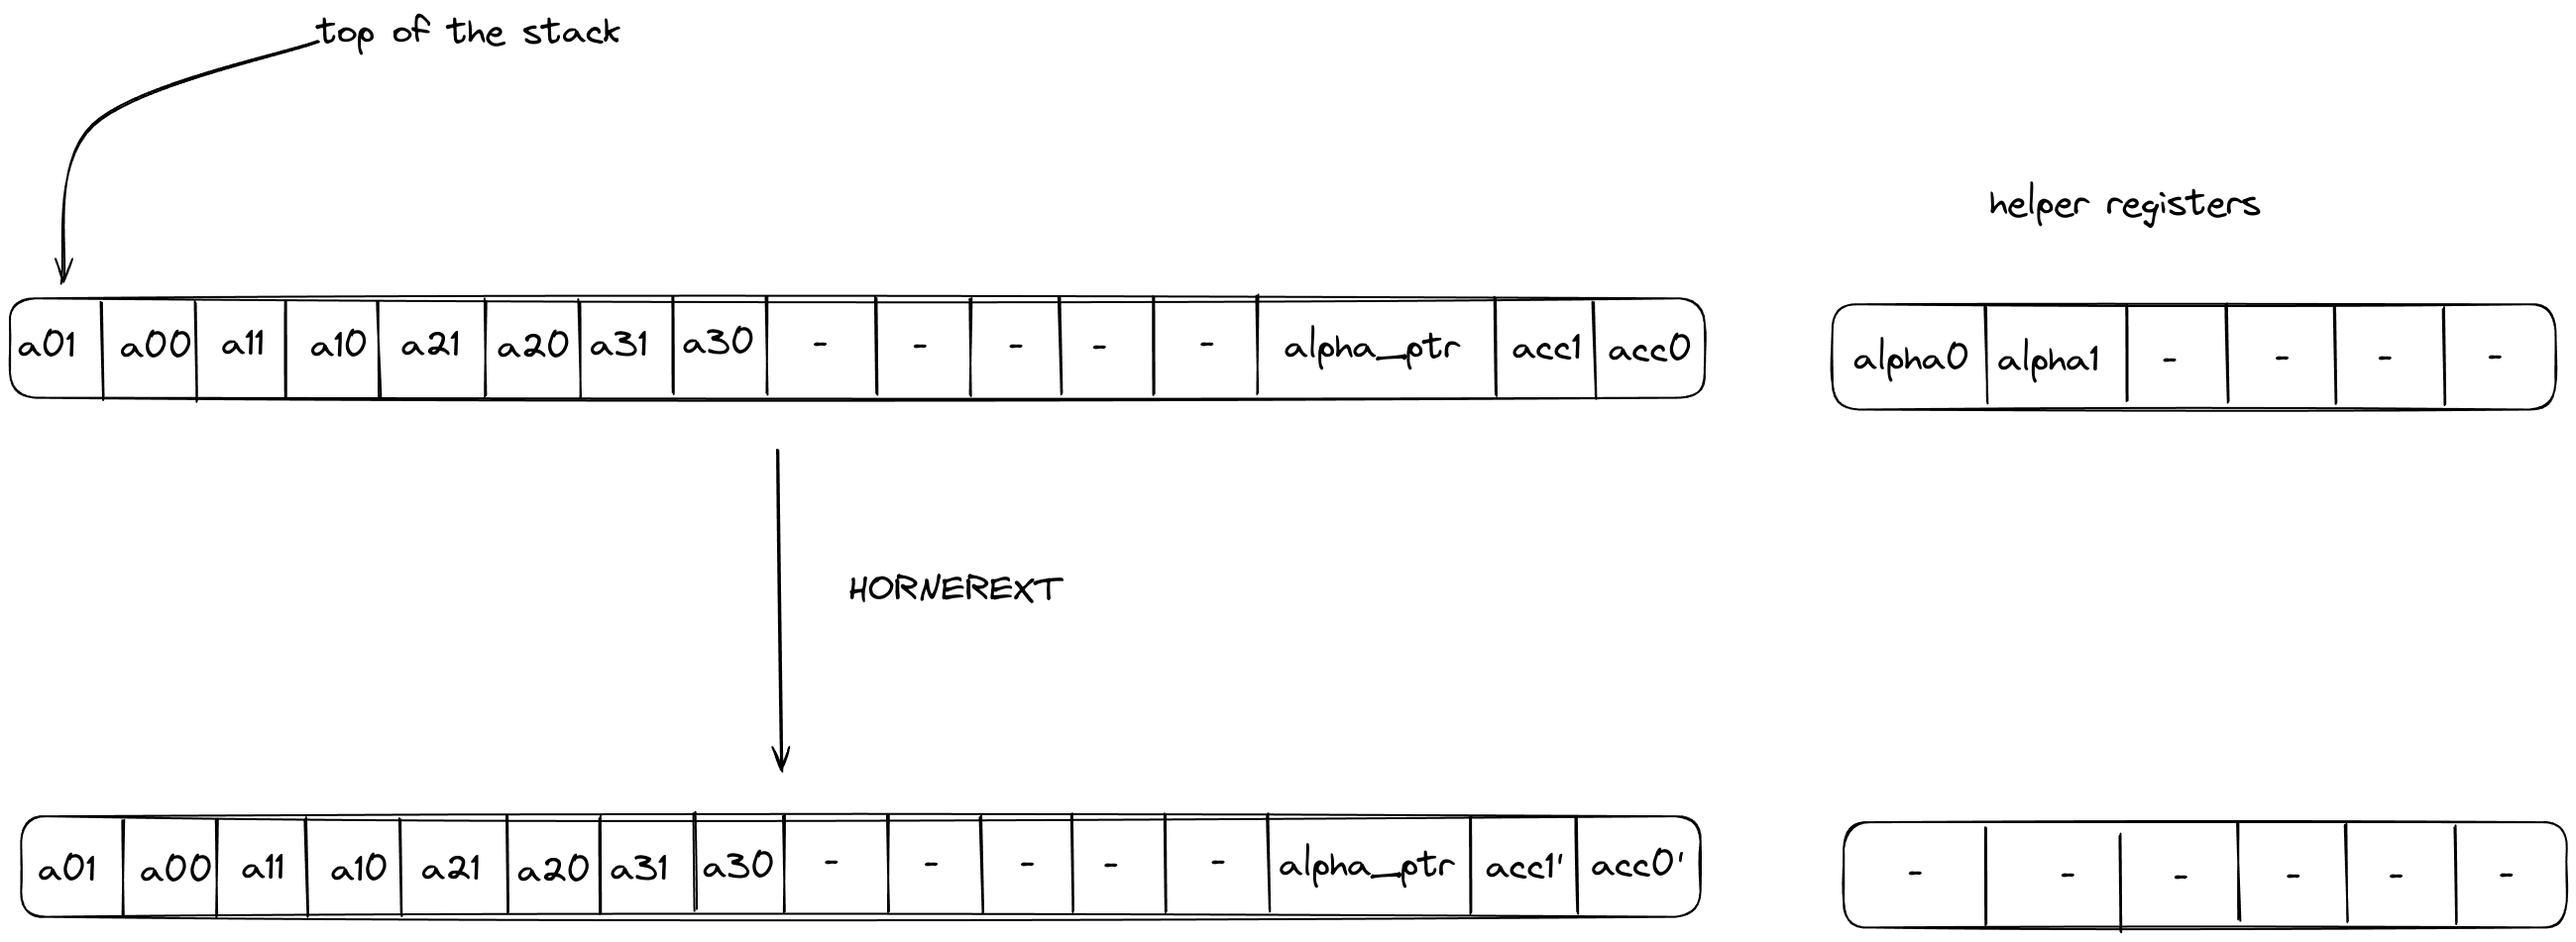
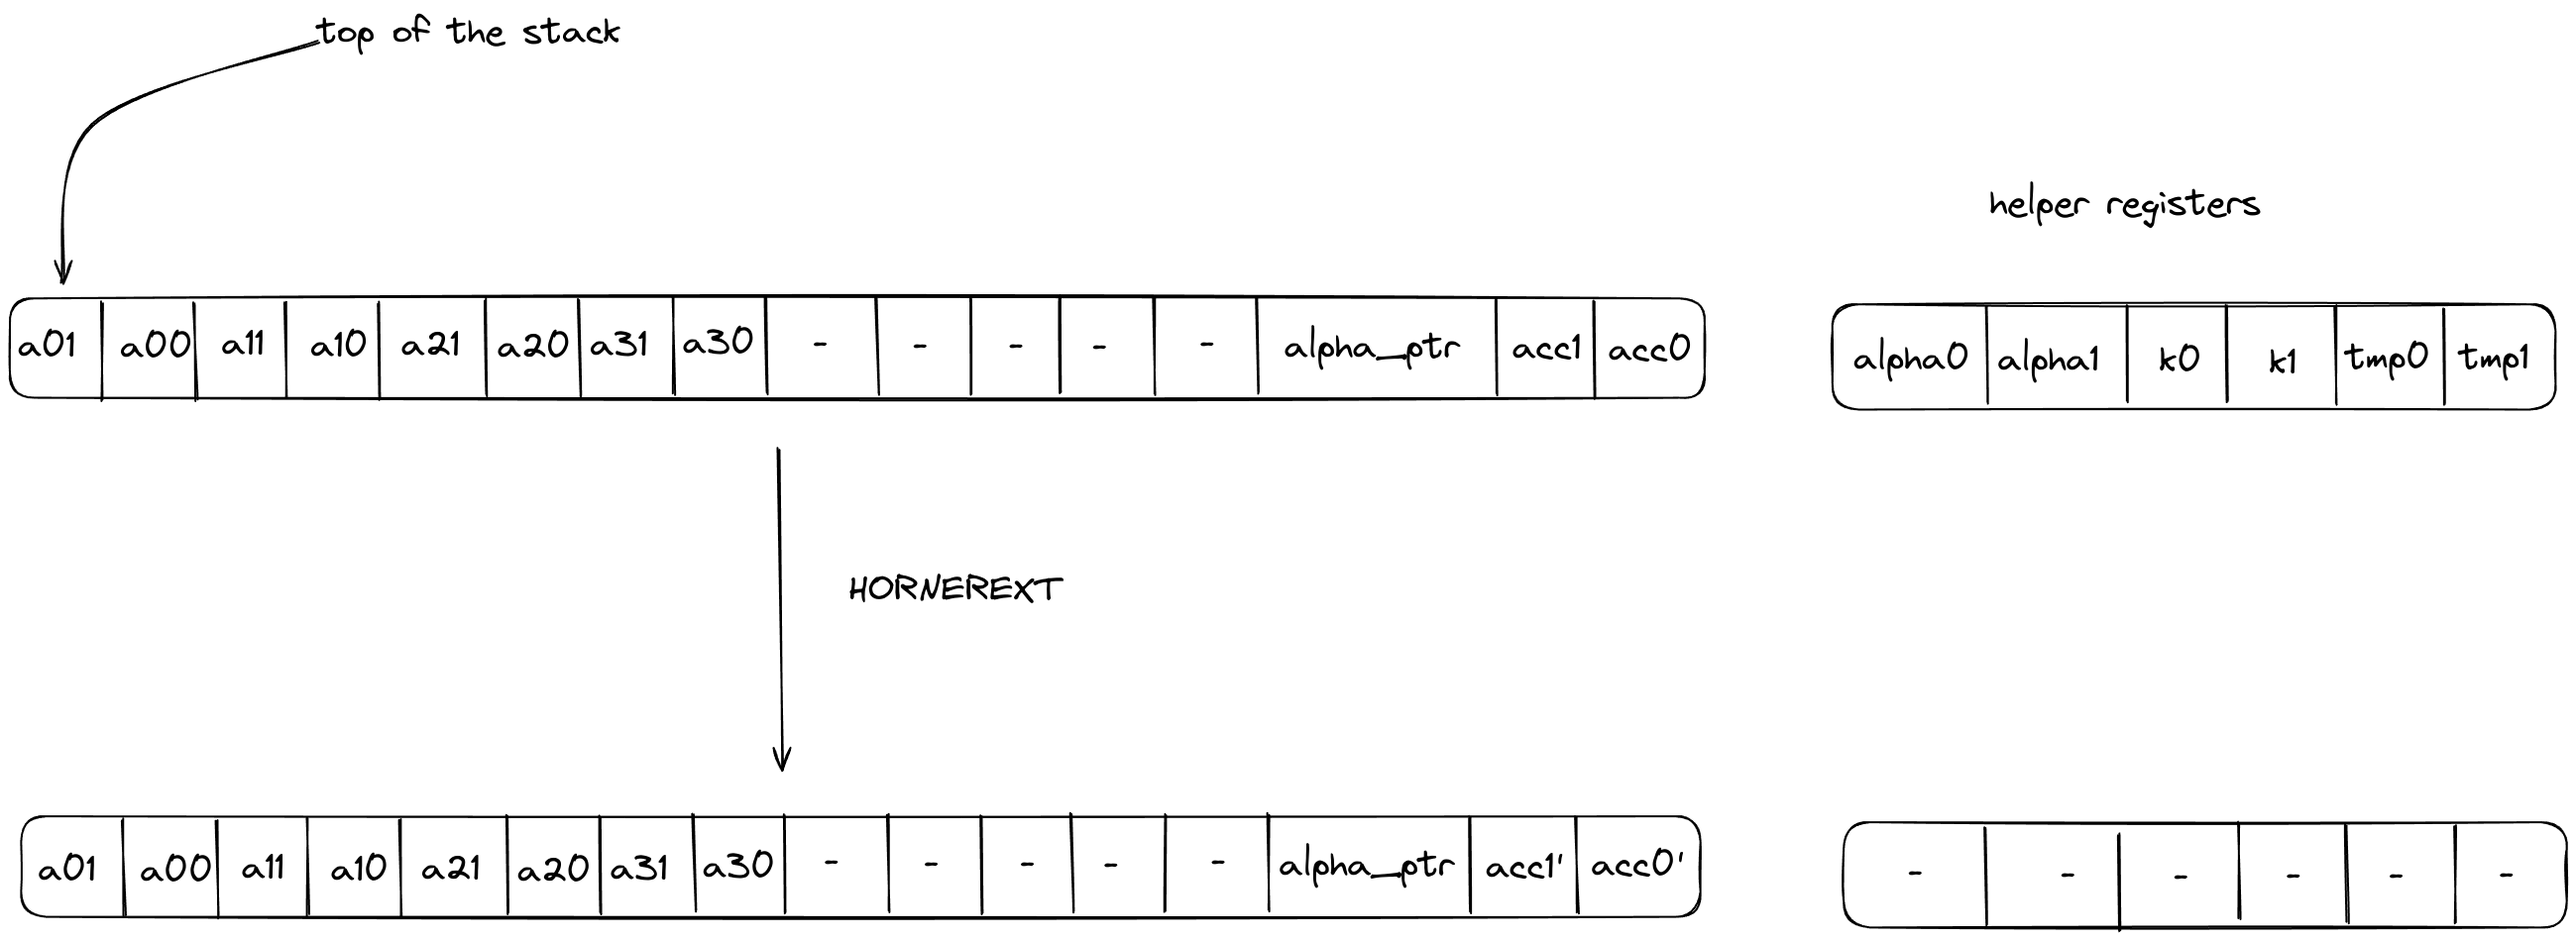
feat: add constraints description and update instructions

diff --git a/processor/src/operations/horner_ops.rs b/processor/src/operations/horner_ops.rs
@@ -1,4 +1,4 @@
-use vm_core::{Felt, Operation, mast::MastNodeExt};
+use vm_core::{Felt, FieldElement, Operation, mast::MastNodeExt};
 
 use crate::{ExecutionError, Process, QuadFelt, errors::ErrorContext};
 
@@ -61,6 +61,8 @@ impl Process {
     ///
     /// The instruction also makes use of the helper registers to hold the value of
     /// alpha = (alpha0, alpha1) during the course of its execution.
+    /// The helper registers are also used in order to hold the second half of the memory word
+    /// containing (alpha0, alpha1), as well as the temporary values acc_tmp.
     pub(super) fn op_horner_eval_base(
         &mut self,
         error_ctx: &ErrorContext<'_, impl MastNodeExt>,
@@ -69,17 +71,39 @@ impl Process {
         let coef = self.get_coeff_as_base_elements();
 
         // read the evaluation point alpha from memory
-        let alpha = self.get_evaluation_point(error_ctx)?;
+        // we also read the second half of the memory word containing alpha
+        let (alpha, k0, k1) = self.get_evaluation_point(error_ctx)?;
 
-        // compute the updated accumulator value
+        // compute the temporary and updated accumulator values
         let acc_old = self.get_accumulator();
-        let acc_new =
-            coef.iter().rev().fold(acc_old, |acc, coef| QuadFelt::from(*coef) + alpha * acc);
+        let acc_tmp = coef
+            .iter()
+            .rev()
+            .take(4)
+            .fold(acc_old, |acc, coef| QuadFelt::from(*coef) + alpha * acc);
+        let acc_new = coef
+            .iter()
+            .rev()
+            .skip(4)
+            .fold(acc_tmp, |acc, coef| QuadFelt::from(*coef) + alpha * acc);
 
         // copy over the stack state to the next cycle changing only the accumulator values
         self.stack.copy_state(0);
         self.stack.set(ACC_HIGH_INDEX, acc_new.to_base_elements()[1]);
         self.stack.set(ACC_LOW_INDEX, acc_new.to_base_elements()[0]);
+
+        // set the helper registers
+        self.decoder.set_user_op_helpers(
+            Operation::HornerBase,
+            &[
+                alpha.base_element(0),
+                alpha.base_element(1),
+                k0,
+                k1,
+                acc_tmp.base_element(0),
+                acc_tmp.base_element(1),
+            ],
+        );
 
         Ok(())
     }
@@ -87,7 +111,11 @@ impl Process {
     /// Performs 4 steps of the Horner evaluation method on a polynomial with coefficients over
     /// the quadratic extension field, i.e., it computes
     ///
-    /// acc' = (((acc * alpha + c0) * alpha + c1) * alpha + c2) * alpha + c3
+    /// acc' = (acc_tmp * alpha + c2) * alpha + c3
+    ///
+    /// where
+    ///
+    /// acc_tmp = (acc * alpha + c0) * alpha + c1
     ///
     ///
     /// In other words, the intsruction computes the evaluation at alpha of the polynomial
@@ -125,6 +153,8 @@ impl Process {
     ///
     /// The instruction also makes use of the helper registers to hold the value of
     /// alpha = (alpha0, alpha1) during the course of its execution.
+    /// The helper registers are also used in order to hold the second half of the memory word
+    /// containing (alpha0, alpha1), as well as the temporary values acc_tmp.
     pub(super) fn op_horner_eval_ext(
         &mut self,
         error_ctx: &ErrorContext<'_, impl MastNodeExt>,
@@ -133,16 +163,31 @@ impl Process {
         let coef = self.get_coeff_as_quad_ext_elements();
 
         // read the evaluation point from memory
-        let alpha = self.get_evaluation_point(error_ctx)?;
+        // we also read the second half of the memory word containing alpha
+        let (alpha, k0, k1) = self.get_evaluation_point(error_ctx)?;
 
-        // compute the updated accumulator value
+        // compute the temporary and updated accumulator values
         let acc_old = self.get_accumulator();
-        let acc_new = coef.iter().rev().fold(acc_old, |acc, coef| *coef + alpha * acc);
+        let acc_tmp = coef.iter().rev().take(2).fold(acc_old, |acc, coef| *coef + alpha * acc);
+        let acc_new = coef.iter().rev().skip(2).fold(acc_tmp, |acc, coef| *coef + alpha * acc);
 
         // copy over the stack state to the next cycle changing only the accumulator values
         self.stack.copy_state(0);
         self.stack.set(ACC_HIGH_INDEX, acc_new.to_base_elements()[1]);
         self.stack.set(ACC_LOW_INDEX, acc_new.to_base_elements()[0]);
+
+        // set the helper registers
+        self.decoder.set_user_op_helpers(
+            Operation::HornerBase,
+            &[
+                alpha.base_element(0),
+                alpha.base_element(1),
+                k0,
+                k1,
+                acc_tmp.base_element(0),
+                acc_tmp.base_element(1),
+            ],
+        );
 
         Ok(())
     }
@@ -184,12 +229,12 @@ impl Process {
     }
 
     /// Returns the evaluation point.
-    ///
-    /// Also sets the helper registers to hold the word read from memory.
+    /// Also returns the second half, i.e., two field elements, that are stored next to
+    /// the evaluation point.
     fn get_evaluation_point(
         &mut self,
         error_ctx: &ErrorContext<'_, impl MastNodeExt>,
-    ) -> Result<QuadFelt, ExecutionError> {
+    ) -> Result<(QuadFelt, Felt, Felt), ExecutionError> {
         let ctx = self.system.ctx();
         let addr = self.stack.get(ALPHA_ADDR_INDEX);
         let word = self
@@ -200,9 +245,7 @@ impl Process {
         let alpha_0 = word[0];
         let alpha_1 = word[1];
 
-        self.decoder.set_user_op_helpers(Operation::HornerBase, &word);
-
-        Ok(QuadFelt::new(alpha_0, alpha_1))
+        Ok((QuadFelt::new(alpha_0, alpha_1), word[2], word[3]))
     }
 
     /// Reads the accumulator values.
@@ -287,11 +330,19 @@ mod tests {
 
         let alpha = QuadFelt::new(alpha_mem_word[0], alpha_mem_word[1]);
 
+        let tmp = stack_state
+            .iter()
+            .take(8)
+            .rev()
+            .take(4)
+            .fold(acc_old, |acc, coef| QuadFelt::from(*coef) + alpha * acc);
+
         let acc_new = stack_state
             .iter()
             .take(8)
             .rev()
-            .fold(acc_old, |acc, coef| QuadFelt::from(*coef) + alpha * acc);
+            .skip(4)
+            .fold(tmp, |acc, coef| QuadFelt::from(*coef) + alpha * acc);
 
         assert_eq!(acc_new.to_base_elements()[1], stack_state[ACC_HIGH_INDEX]);
         assert_eq!(acc_new.to_base_elements()[0], stack_state[ACC_LOW_INDEX]);
@@ -306,8 +357,8 @@ mod tests {
             alpha_mem_word[1],
             alpha_mem_word[2],
             alpha_mem_word[3],
-            ZERO,
-            ZERO,
+            tmp.base_element(0),
+            tmp.base_element(1),
         ];
         assert_eq!(helper_reg_expected, process.decoder.get_user_op_helpers());
     }
@@ -370,11 +421,14 @@ mod tests {
 
         let alpha = QuadFelt::new(alpha_mem_word[0], alpha_mem_word[1]);
 
-        let acc_new = stack_state
+        let coefficients: Vec<_> = stack_state
             .chunks(2)
             .take(4)
-            .rev()
-            .fold(acc_old, |acc, coef| QuadFelt::new(coef[1], coef[0]) + alpha * acc);
+            .map(|coef| QuadFelt::new(coef[1], coef[0]))
+            .collect();
+
+        let tmp = coefficients.iter().rev().take(2).fold(acc_old, |acc, coef| *coef + alpha * acc);
+        let acc_new = coefficients.iter().rev().skip(2).fold(tmp, |acc, coef| *coef + alpha * acc);
 
         assert_eq!(acc_new.to_base_elements()[1], stack_state[ACC_HIGH_INDEX]);
         assert_eq!(acc_new.to_base_elements()[0], stack_state[ACC_LOW_INDEX]);
@@ -389,8 +443,8 @@ mod tests {
             alpha_mem_word[1],
             alpha_mem_word[2],
             alpha_mem_word[3],
-            ZERO,
-            ZERO,
+            tmp.base_element(0),
+            tmp.base_element(1),
         ];
         assert_eq!(helper_reg_expected, process.decoder.get_user_op_helpers());
     }

diff --git a/docs/src/design/stack/crypto_ops.md b/docs/src/design/stack/crypto_ops.md
@@ -153,13 +153,15 @@ The effect on the rest of the stack is:
 
 ## HORNERBASE
 The `HORNERBASE` operation performs $8$ steps of the Horner method for evaluating a polynomial with coefficients over the base field at a point in the quadratic extension field. More precisely, it performs the following update to the accumulator on the stack
-    $$\mathsf{acc}^{'} = (((((((((\mathsf{acc} \cdot \alpha + a_7) \cdot \alpha + a_6) \cdot \alpha + a_5) \cdot \alpha + a_4) \cdot \alpha + a_3) \cdot \alpha + a_2) \cdot \alpha + a_1) \cdot \alpha + a_0$$
-where $a_i$ are the coefficients of the polynomial, $\alpha$ the evaluation point, $\mathsf{acc}$ the current accumulator value and $\mathsf{acc}^{'}$ the updated accumulator value.
+    $$\mathsf{tmp} = (((\mathsf{acc} \cdot \alpha + a_7) \cdot \alpha + a_6) \cdot \alpha + a_5) \cdot \alpha + a_4$$
+
+   $$\mathsf{acc}^{'} = (((\mathsf{tmp} \cdot \alpha + a_3) \cdot \alpha + a_2) \cdot \alpha + a_1) \cdot \alpha + a_0$$
+where $a_i$ are the coefficients of the polynomial, $\alpha$ the evaluation point, $\mathsf{acc}$ the current accumulator value, $\mathsf{acc}^{'}$ the updated accumulator value, and $\mathsf{tmp}$ is a helper variable used for constraint degree reduction.
 
 The stack for the operation is expected to be arranged as follows:
-- The first $8$ stack elements contain $8$ base field elements $a_0,\cdots , a_7$ representing the current 8-element batch of coefficients for the polynomial being evaluated.
+- The first $8$ stack elements are the $8$ base field elements $a_0,\cdots , a_7$ representing the current 8-element batch of coefficients for the polynomial being evaluated.
 - The next $5$ stack elements are irrelevant for the operation and unaffected by it.
-- The next stack element contains the value of the memory pointer `alpha_ptr` to the evaluation point $\alpha$. The word address containing $\alpha = (\alpha_0, \alpha_1)$ is expected to have layout $[\alpha_0, \alpha_1, 0, 0]$.
+- The next stack element contains the value of the memory pointer `alpha_ptr` to the evaluation point $\alpha$. The word address containing $\alpha = (\alpha_0, \alpha_1)$ is expected to have layout $[\alpha_0, \alpha_1, k_0, k_1]$ where $[k_0, k_1]$ is the second half of the memory word containing $\alpha$. Note that, in the context of the above expressions, we only care about the first half i.e., $[\alpha_0, \alpha_1]$, but providing the second half of the word in order to be able to do a one word memory read is more optimal than doing two element memory reads.
 - The next $2$ stack elements contain the value of the current accumulator $\textsf{acc} = (\textsf{acc}_0, \textsf{acc}_1)$.
 
 The diagram below illustrates the stack transition for `HORNERBASE` operation.
@@ -167,7 +169,26 @@ The diagram below illustrates the stack transition for `HORNERBASE` operation.
 ![horner_eval_base](../../assets/design/stack/crypto_ops/HORNERBASE.png)
 
 After calling the operation:
+- Helper registers $h_4$ and $h_5$ will contain the intermediate value $\mathsf{tmp}$.
 - Stack elements $14$ and $15$ will contain the value of the updated accumulator i.e., $\mathsf{acc}^{'}$.
+
+More specifically, the stack transition for this operation must satisfy the following constraints:
+
+>$$
+\mathsf{tmp}_0 = \mathsf{acc}_0 \cdot \alpha_0^4 - 8 \cdot \mathsf{acc}_1 \cdot \alpha_0^3 \cdot \alpha_1 - 12 \cdot \mathsf{acc}_0 \cdot \alpha_0^2 \cdot \alpha_1^2 - 12 \cdot \mathsf{acc}_1 \cdot \alpha_0^2 \cdot \alpha_1^2 - 8 \cdot \mathsf{acc}_0 \cdot \alpha_0 \cdot \alpha_1^3 + 8 \cdot \mathsf{acc}_1\cdot\alpha_0\cdot\alpha_1^3 + 2\cdot\mathsf{acc}_0\cdot\alpha_1^4 + 6\cdot\mathsf{acc}_1\cdot\alpha_1^4 + s_7\cdot\alpha_0^3 - 6 \cdot s_7\cdot\alpha_0\cdot\alpha_1^2 - 2 \cdot s_7\cdot\alpha_1^3 + s_6\cdot\alpha_0^2 - 2\cdot s_6\cdot\alpha_1^2 + s_5\cdot\alpha_0 + s_4  \text{ | degree} = 5
+$$
+
+>$$
+\mathsf{tmp}_1 = \mathsf{acc}_1 \cdot \alpha_0^4 + 4 \cdot \mathsf{acc}_0 \cdot \alpha_0^3 \cdot \alpha_1 + 4 \cdot \mathsf{acc}_1 \cdot \alpha_0^3 \cdot \alpha_1 + 6 \cdot \mathsf{acc}_0 \cdot \alpha_0^2 \cdot \alpha_1^2 - 6 \cdot \mathsf{acc}_1 \cdot \alpha_0^2 \cdot \alpha_1^2 - 4 \cdot \mathsf{acc}_0 \cdot \alpha_0\cdot\alpha_1^3 - 12 \cdot \mathsf{acc}_1 \cdot \alpha_0 \cdot \alpha_1^3  - 3 \cdot\mathsf{acc}_0 \cdot \alpha_1^4 - \mathsf{acc}_1 \cdot \alpha_1^4 + 3 \cdot s_7 \cdot \alpha_0^2\cdot\alpha_1 + 3 \cdot s_7 \cdot \alpha_0\cdot\alpha_1^2 - s_7   \cdot\alpha_1^3 + 2\cdot s_6\cdot\alpha_0\cdot\alpha_1 + s_6\cdot\alpha_1^2 + s_5\cdot\alpha_1  \text{ | degree} = 5
+$$
+
+>$$
+\mathsf{acc}_0^{'} = \mathsf{tmp}_0\cdot\alpha_0^4 - 8 \cdot\mathsf{tmp}_1\cdot\alpha_0^3\cdot\alpha_1 - 12 \cdot\mathsf{tmp}_0\cdot\alpha_0^2\cdot\alpha_1^2  - 12\cdot\mathsf{tmp}_1\cdot\alpha_0^2\cdot\alpha_1^2 - 8\cdot\mathsf{tmp}_0\cdot\alpha_0\cdot\alpha_1^3 + 8\cdot\mathsf{tmp}_1\cdot\alpha_0\cdot\alpha_1^3 + 2\cdot\mathsf{tmp}_0\cdot\alpha_1^4 + 6\cdot\mathsf{tmp}_1\cdot\alpha_1^4 +  s_3\cdot\alpha_0^3 - 6\cdot s_3\cdot\alpha_0\cdot\alpha_1^2 - 2\cdot s_3\cdot\alpha_1^3 +  s_2\cdot\alpha_0^2 - 2\cdot s_2\cdot\alpha_1^2 +  s_1\cdot\alpha_0 + s_0  \text{ | degree} = 5
+$$
+
+>$$
+\mathsf{acc}_1^{'} = \mathsf{tmp}_1\cdot\alpha_0^4 + 4\cdot\mathsf{tmp}_0\cdot\alpha_0^3\cdot\alpha_1 + 4\cdot\mathsf{tmp}_1\cdot\alpha_0^3\cdot\alpha_1 + 6\cdot\mathsf{tmp}_0\cdot\alpha_0^2\cdot\alpha_1^2 - 6\cdot\mathsf{tmp}_1\cdot\alpha_0^2\cdot\alpha_1^2 - 4 \cdot \mathsf{tmp}_0\cdot\alpha_0\cdot\alpha_1^3 -12\cdot\mathsf{tmp}_1\cdot\alpha_0\cdot\alpha_1^3 - 3\cdot\mathsf{tmp}_0\cdot\alpha_1^4 - \mathsf{tmp}_1\cdot\alpha_1^4 + 3\cdot s_3\cdot\alpha_0^2\cdot\alpha_1 + 3\cdot s_3\cdot\alpha_0\cdot\alpha_1^2 -  s_3\cdot\alpha_1^3 + 2\cdot s_2\cdot\alpha_0\cdot\alpha_1 +  s_2\cdot\alpha_1^2 +  s_1\cdot\alpha_1  \text{ | degree} = 5
+$$
 
 The effect on the rest of the stack is:
 * **No change.**
@@ -175,18 +196,20 @@ The effect on the rest of the stack is:
 The `HORNERBASE` makes one memory access request:
 
 $$
-u_{mem} = \alpha_0 + \alpha_1 \cdot op_{mem\_readword} + \alpha_2 \cdot ctx + \alpha_3 \cdot s_{13} + \alpha_4 \cdot clk + \alpha_{5} \cdot h_{0} + \alpha_{6} \cdot h_{1}
+u_{mem} = \alpha_0 + \alpha_1 \cdot op_{mem\_readword} + \alpha_2 \cdot ctx + \alpha_3 \cdot s_{13} + \alpha_4 \cdot clk + \alpha_{5} \cdot h_{0} + \alpha_{6} \cdot h_{1} + \alpha_{7} \cdot h_{3} + \alpha_{8} \cdot h_{4}
 $$
 
 ## HORNEREXT
 The `HORNEREXT` operation performs $4$ steps of the Horner method for evaluating a polynomial with coefficients over the quadratic extension field at a point in the quadratic extension field. More precisely, it performs the following update to the accumulator on the stack
-    $$\mathsf{acc}^{'} = (((\mathsf{acc} \cdot \alpha + a_3) \cdot \alpha + a_2) \cdot \alpha + a_1) \cdot \alpha + a_0$$
-where $a_i$ are the coefficients of the polynomial, $\alpha$ the evaluation point, $\mathsf{acc}$ the current accumulator value and $\mathsf{acc}^{'}$ the updated accumulator value.
+    $$\mathsf{tmp} = (\mathsf{acc} \cdot \alpha + a_3) \cdot \alpha + a_2$$
+$$\mathsf{acc}^{'} = (\mathsf{tmp} \cdot \alpha + a_1) \cdot \alpha + a_0$$
+
+where $a_i$ are the coefficients of the polynomial, $\alpha$ the evaluation point, $\mathsf{acc}$ the current accumulator value, $\mathsf{acc}^{'}$ the updated accumulator value, and $\mathsf{tmp}$ is a helper variable used for constraint degree reduction.
 
 The stack for the operation is expected to be arranged as follows:
-- The first $8$ stack elements contain $8$ base field elements $a_0,\cdots , a_7$ representing the current 4-element batch of coefficients, in the quadratic extension field, for the polynomial being evaluated.
+- The first $8$ stack elements contain $8$ base field elements that make up the current 4-element batch of coefficients, in the quadratic extension field, for the polynomial being evaluated.
 - The next $5$ stack elements are irrelevant for the operation and unaffected by it.
-- The next stack element contains the value of the memory pointer `alpha_ptr` to the evaluation point $\alpha$. The word address containing $\alpha = (\alpha_0, \alpha_1)$ is expected to have layout $[\alpha_0, \alpha_1, 0, 0]$.
+- The next stack element contains the value of the memory pointer `alpha_ptr` to the evaluation point $\alpha$. The word address containing $\alpha = (\alpha_0, \alpha_1)$ is expected to have layout $[\alpha_0, \alpha_1, k_0, k_1]$ where $[k_0, k_1]$ is the second half of the memory word containing $\alpha$. Note that, in the context of the above expressions, we only care about the first half i.e., $[\alpha_0, \alpha_1]$, but providing the second half of the word in order to be able to do a one word memory read is more optimal than doing two element memory reads.
 - The next $2$ stack elements contain the value of the current accumulator $\textsf{acc} = (\textsf{acc}_0, \textsf{acc}_1)$.
 
 The diagram below illustrates the stack transition for `HORNEREXT` operation.
@@ -194,7 +217,26 @@ The diagram below illustrates the stack transition for `HORNEREXT` operation.
 ![horner_eval_ext](../../assets/design/stack/crypto_ops/HORNEREXT.png)
 
 After calling the operation:
+- Helper registers $h_4$ and $h_5$ will contain the intermediate value $\mathsf{tmp}$.
 - Stack elements $14$ and $15$ will contain the value of the updated accumulator i.e., $\mathsf{acc}^{'}$.
+
+More specifically, the stack transition for this operation must satisfy the following constraints:
+
+>$$
+\mathsf{tmp}_0 = \mathsf{acc}_0\cdot \alpha_0^2 - 4\cdot \mathsf{acc}_1\cdot \alpha_0\cdot \alpha_1 -2\cdot \mathsf{acc}_0\cdot \alpha_1^2 -2\cdot \mathsf{acc}_1\cdot \alpha_1^2 + s_6\cdot \alpha_0 -2\cdot s_7\cdot \alpha_1 + s_4  \text{ | degree} = 3
+$$
+
+>$$
+\mathsf{tmp}_1 = \mathsf{acc}_1\cdot \alpha_0^2 + 2\cdot \mathsf{acc}_0\cdot \alpha_0\cdot \alpha_1 + 2\cdot \mathsf{acc}_1\cdot \alpha_0\cdot \alpha_1 + \mathsf{acc}_0\cdot \alpha_1^2 - \mathsf{acc}_1\cdot \alpha_1^2 + s_7\cdot \alpha_0 + s_6\cdot \alpha_1 + s_7\cdot \alpha_1 + s_5  \text{ | degree} = 3
+$$
+
+>$$
+\mathsf{acc}_0^{'} = \mathsf{tmp}_0\cdot \alpha_0^2 - 4\cdot \mathsf{tmp}_1\cdot \alpha_0\cdot \alpha_1 - 2\cdot \mathsf{tmp}_0\cdot \alpha_1^2 - 2\cdot \mathsf{tmp}_1\cdot \alpha_1^2 + s_2\cdot \alpha_0 - 2\cdot s_3\cdot \alpha_1 + s_0  \text{ | degree} = 3
+$$
+
+>$$
+\mathsf{acc}_1^{'} = \mathsf{tmp}_1\cdot \alpha_0^2 + 2\cdot \mathsf{tmp}_0\cdot \alpha_0\cdot \alpha_1 + 2\cdot \mathsf{tmp}_1\cdot \alpha_0\cdot \alpha_1 + \mathsf{tmp}_0\cdot \alpha_1^2 - \mathsf{tmp}_1\cdot \alpha_1^2 + s_3\cdot \alpha_0 + s_2\cdot \alpha_1 + s_3\cdot \alpha_1 + s_1  \text{ | degree} = 3
+$$
 
 The effect on the rest of the stack is:
 * **No change.**
@@ -202,5 +244,5 @@ The effect on the rest of the stack is:
 The `HORNEREXT` makes one memory access request:
 
 $$
-u_{mem} = \alpha_0 + \alpha_1 \cdot op_{mem\_readword} + \alpha_2 \cdot ctx + \alpha_3 \cdot s_{13} + \alpha_4 \cdot clk + \alpha_{5} \cdot h_{0} + \alpha_{6} \cdot h_{1}
+u_{mem} = \alpha_0 + \alpha_1 \cdot op_{mem\_readword} + \alpha_2 \cdot ctx + \alpha_3 \cdot s_{13} + \alpha_4 \cdot clk + \alpha_{5} \cdot h_{0} + \alpha_{6} \cdot h_{1} + \alpha_{7} \cdot h_{3} + \alpha_{8} \cdot h_{4}
 $$
